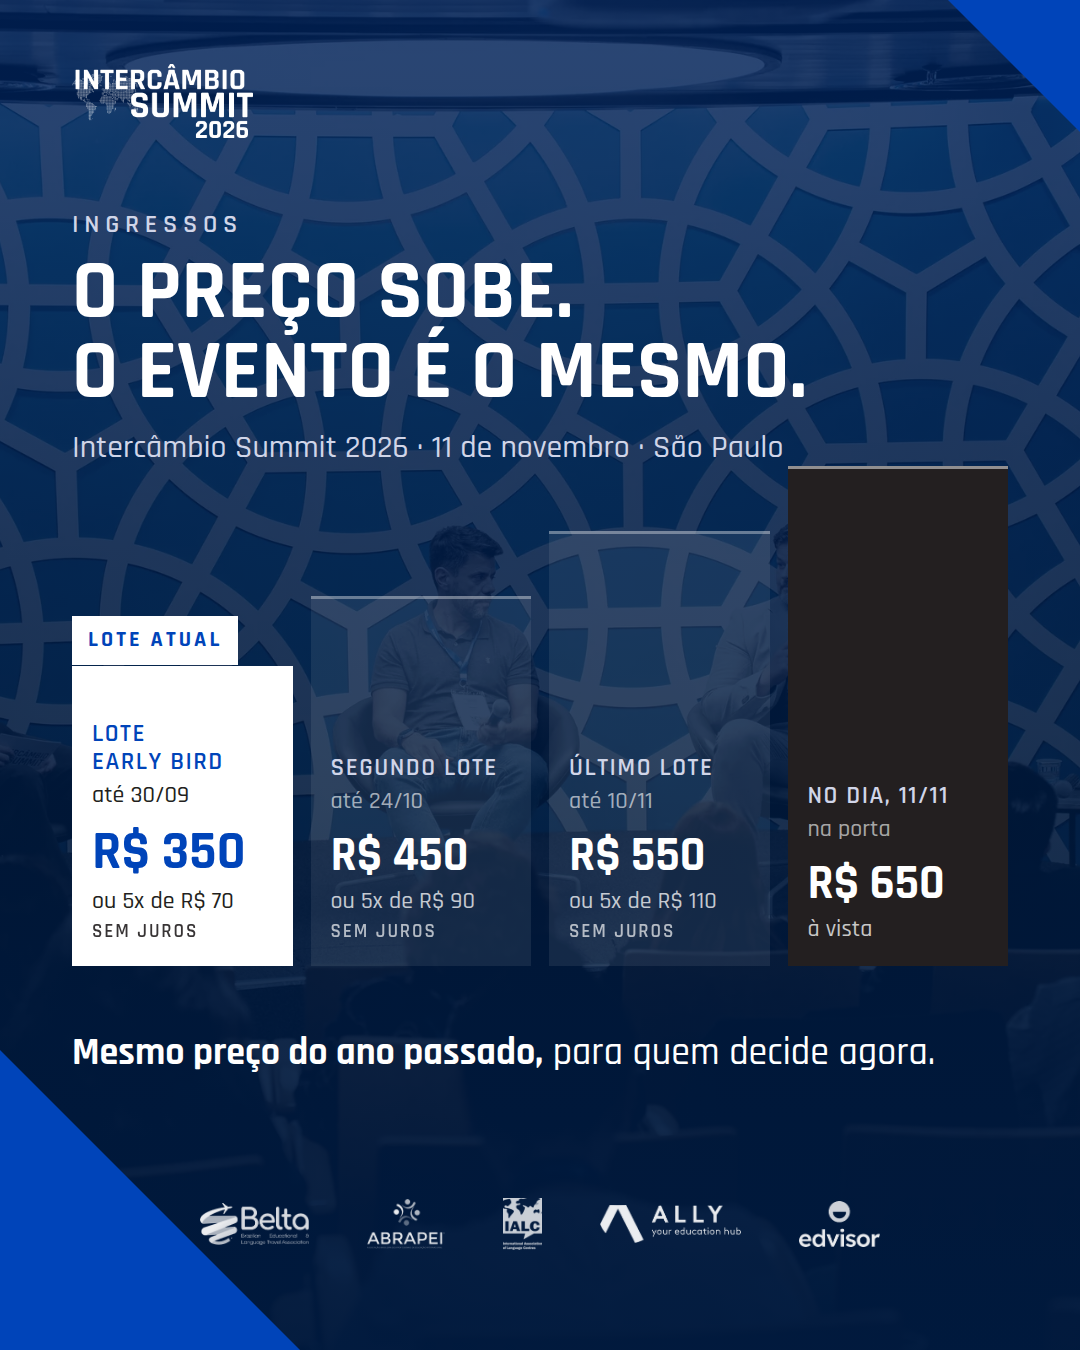
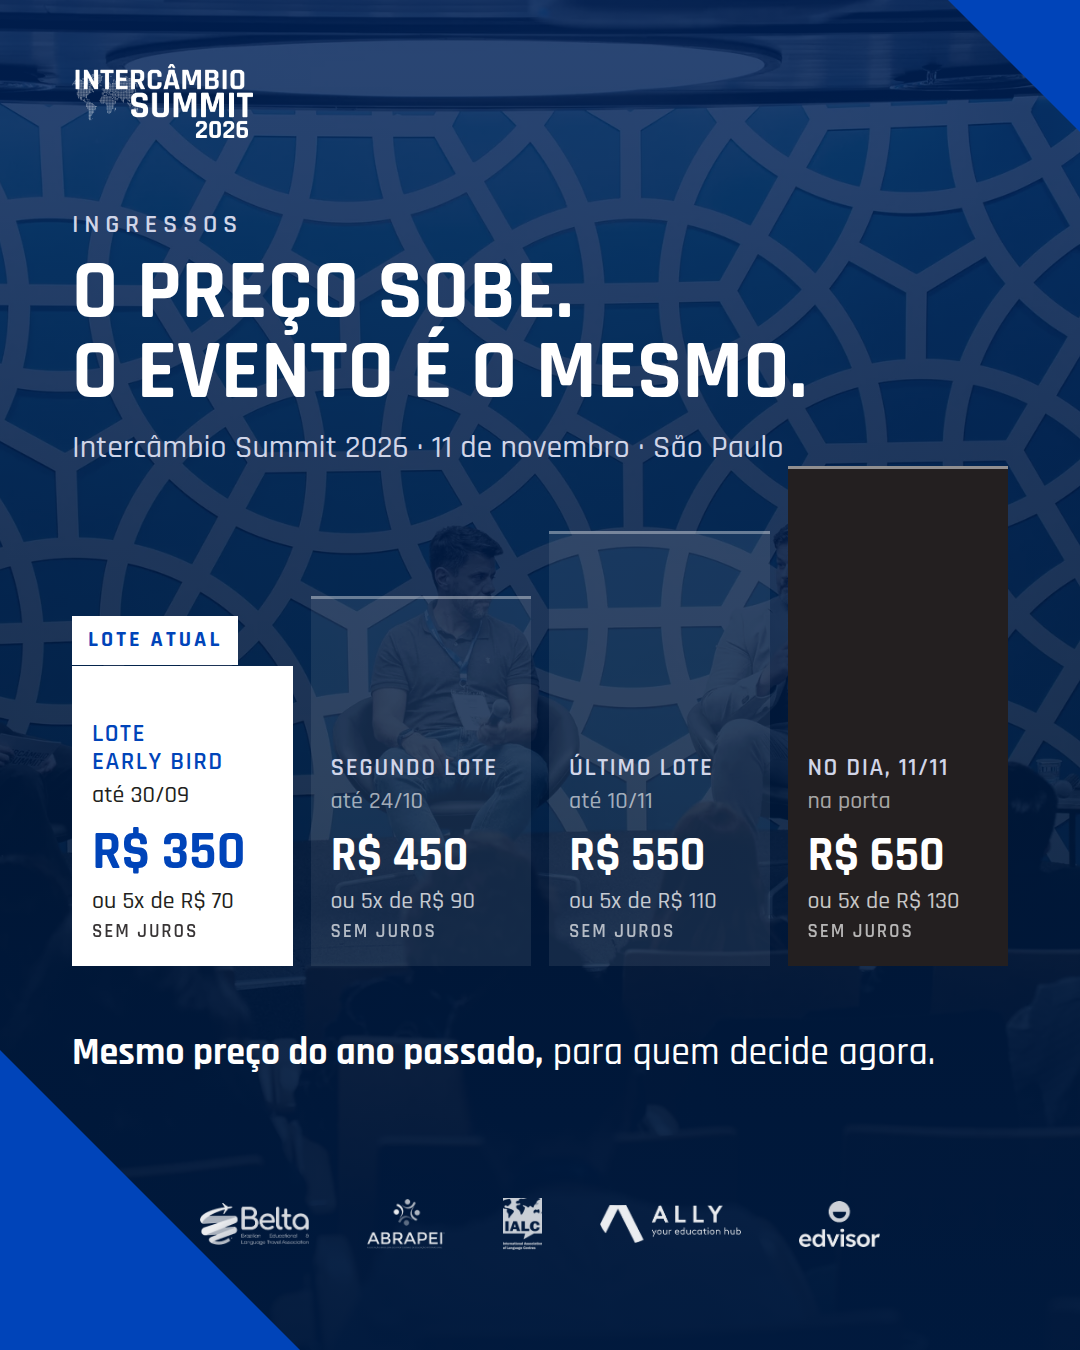
Dia do evento também em 5x de R$ 130 sem juros (site e tabela de preços)
Claude-Session: https://claude.ai/code/session_01K1jUSLEfcAN8o76QZJPw2m

Changed region(s): [[0.7333, 0.56, 0.8861, 0.7156]]

diff --git a/site/evento.config.js b/site/evento.config.js
@@ -33,7 +33,7 @@ window.EVENTO = {
     { nome: "Early Bird",    inicio: "2026-09-01", fim: "2026-09-30", avista: 350, parcelado: "5x R$ 70 sem juros" },
     { nome: "Segundo lote",  inicio: "2026-10-01", fim: "2026-10-24", avista: 450, parcelado: "5x R$ 90 sem juros" },
     { nome: "Terceiro lote", inicio: "2026-10-25", fim: "2026-11-10", avista: 550, parcelado: "5x R$ 110 sem juros" },
-    { nome: "Dia do evento", inicio: "2026-11-11", fim: "2026-11-11", avista: 650, parcelado: "" }
+    { nome: "Dia do evento", inicio: "2026-11-11", fim: "2026-11-11", avista: 650, parcelado: "5x R$ 130 sem juros" }
   ],
 
   // Palestrantes 2026 — quando os retratos 800x800 chegarem, salvar em

diff --git a/criativos/templates/modelo-b-precos.html b/criativos/templates/modelo-b-precos.html
@@ -105,7 +105,7 @@
         <div class="nome">No dia, 11/11</div>
         <div class="prazo">na porta</div>
         <div class="valor">R$ 650</div>
-        <div class="parc">à vista</div>
+        <div class="parc">ou 5x de R$ 130 <span class="sj">sem juros</span></div>
       </div>
     </div>
 
